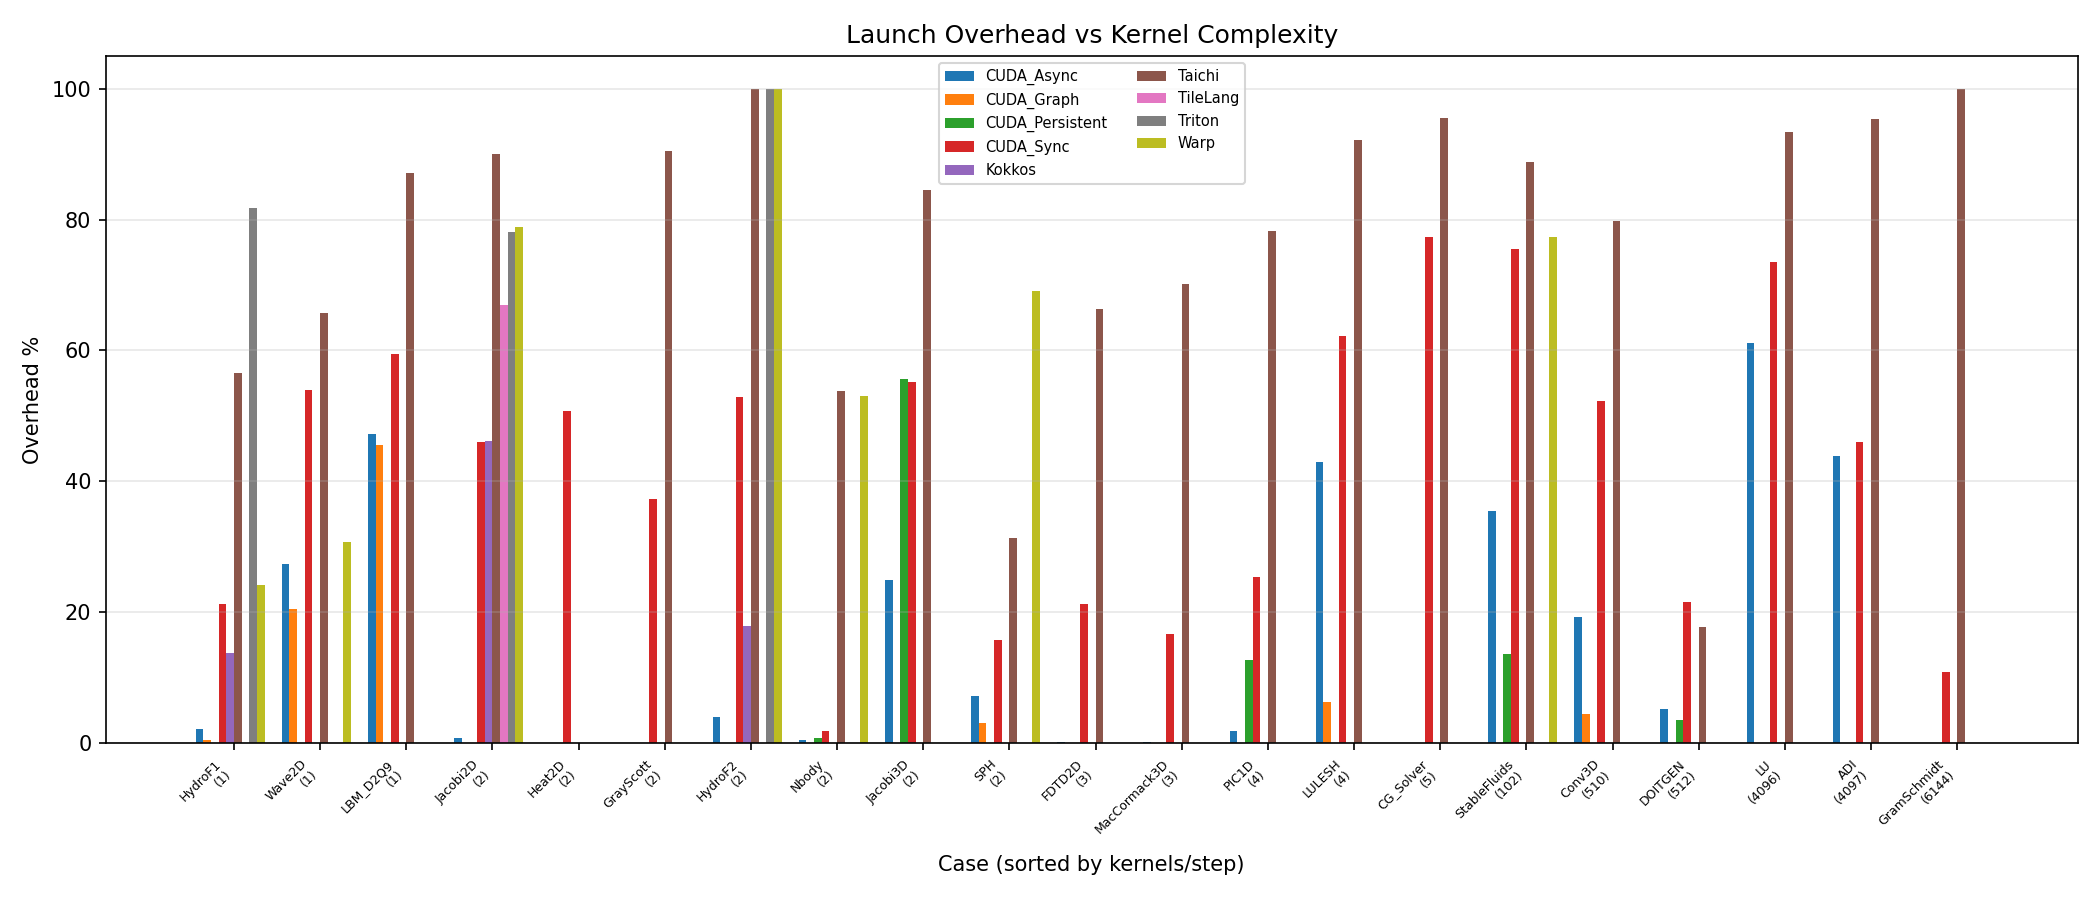
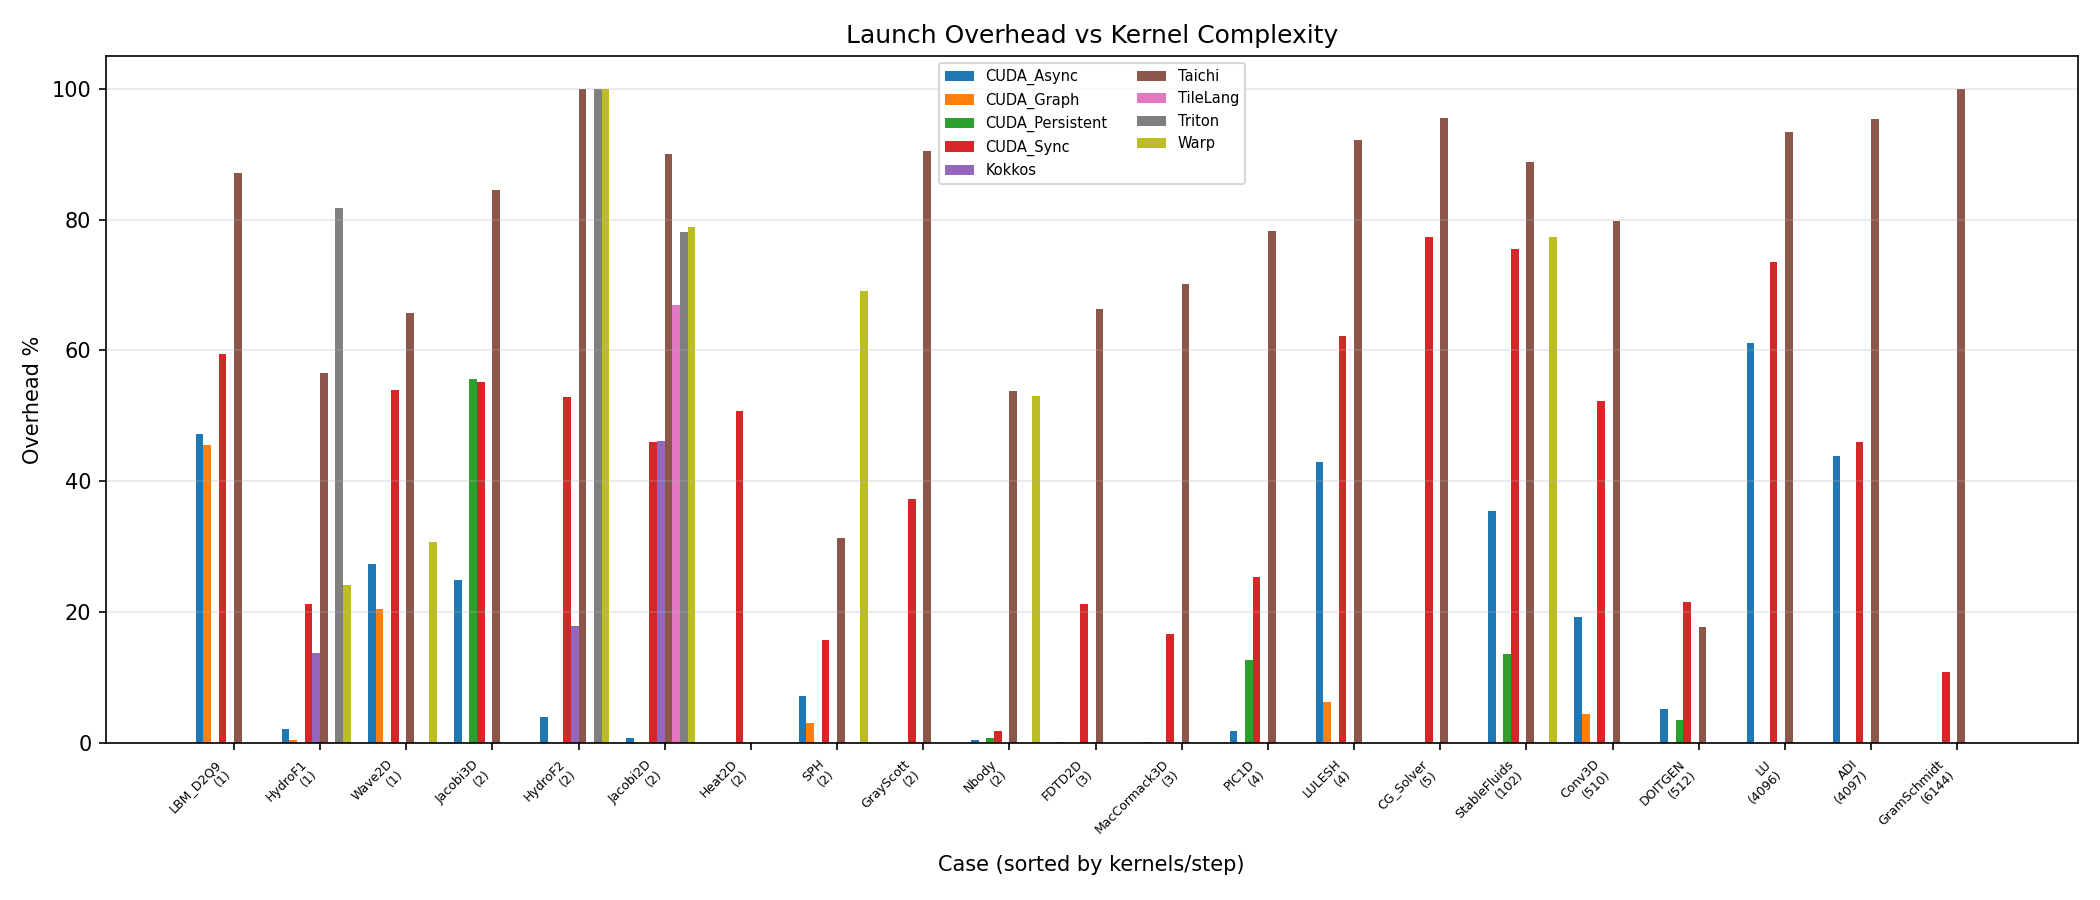
Integrate TileLang C8/C9 into runner, correctness test, and CSV
Re-registered TileLang for C8 (hydro_tilelang.run_real) and C9
(hydro_refactored_tilelang.run) in both test_correctness.py and
run_matrix.py. Both fail at runtime during step_fn due to TVM JIT
limitations with the Osher solver complexity.

Added N/A rows for HydroF1/HydroF2 TileLang in matrix_results.csv
with documented reason strings. Updated F1 BENCHMARK_RESULTS.md.

21/21 correctness pass. DSL consistency: 10/13 (C16/warp 7.83%,
C8/tilelang crash, C9/tilelang crash). 268 CSV rows.

diff --git a/benchmark/test_correctness.py b/benchmark/test_correctness.py
@@ -168,8 +168,8 @@ for cid, subdir, mod, call in TRITON_IMPLS:
 # Add TileLang implementations where available
 TILELANG_IMPLS = [
     ("C1", "A1_jacobi_2d", "jacobi_tilelang", "run(N=64,steps=100,backend='cuda')"),
-    # C8/tilelang: F1 Osher solver JIT compilation causes runtime crash in step_fn
-    # C9/tilelang: simplified Osher produces Inf after 900 steps (numerically unstable)
+    ("C8", "F1_hydro_shallow_water", "hydro_tilelang", "run_real(steps=100,backend='cuda',mesh='default')"),
+    ("C9", "F2_hydro_refactored", "hydro_refactored_tilelang", "run(steps=100,backend='cuda',mesh='default')"),
 ]
 for cid, subdir, mod, call in TILELANG_IMPLS:
     mod_path = os.path.join(BD, subdir, mod + ".py") if subdir != "." else os.path.join(BD, mod + ".py")

diff --git a/benchmark/run_matrix.py b/benchmark/run_matrix.py
@@ -380,6 +380,8 @@ def run_tilelang(case_id, gpu, dry_run):
     """Run TileLang DSL for cases with TileLang implementations."""
     TILELANG_MAP = {
         "C1": ("A1_jacobi_2d","jacobi_tilelang","run(N={sz},steps={st},backend='cuda')",[(256,100),(4096,100)]),
+        "C8": ("F1_hydro_shallow_water","hydro_tilelang","run_real(steps={st},backend='cuda',mesh='{mesh}')",[("default",10)]),
+        "C9": ("F2_hydro_refactored","hydro_refactored_tilelang","run(steps={st},backend='cuda',mesh='{mesh}')",[("default",100)]),
     }
     if case_id not in TILELANG_MAP: return []
     subdir, mod, call_tpl, sizes = TILELANG_MAP[case_id]

diff --git a/benchmark/F1_hydro_shallow_water/BENCHMARK_RESULTS.md b/benchmark/F1_hydro_shallow_water/BENCHMARK_RESULTS.md
@@ -84,8 +84,8 @@ However, the full Osher Riemann solver generates enormous TileLang IR that cause
 TVM JIT compilation to exceed practical time limits (>10 min per kernel). The F2
 refactored version with separate flux/update kernels compiles successfully.
 
-- **Correctness**: Verified — init state matches Taichi (max_rel_error=0.00e+00)
-- **Timing**: Not available for F1 (JIT too slow); F2 timing in matrix_results.csv
+- **Correctness**: TileLang JIT runtime crash during step_fn execution. F1 Osher solver generates TVM IR too complex for the JIT backend. Registered in correctness test (fails with runtime error).
+- **Timing**: N/A row in matrix_results.csv (TileLang JIT crash)
 
 ### Not Benchmarked
 
